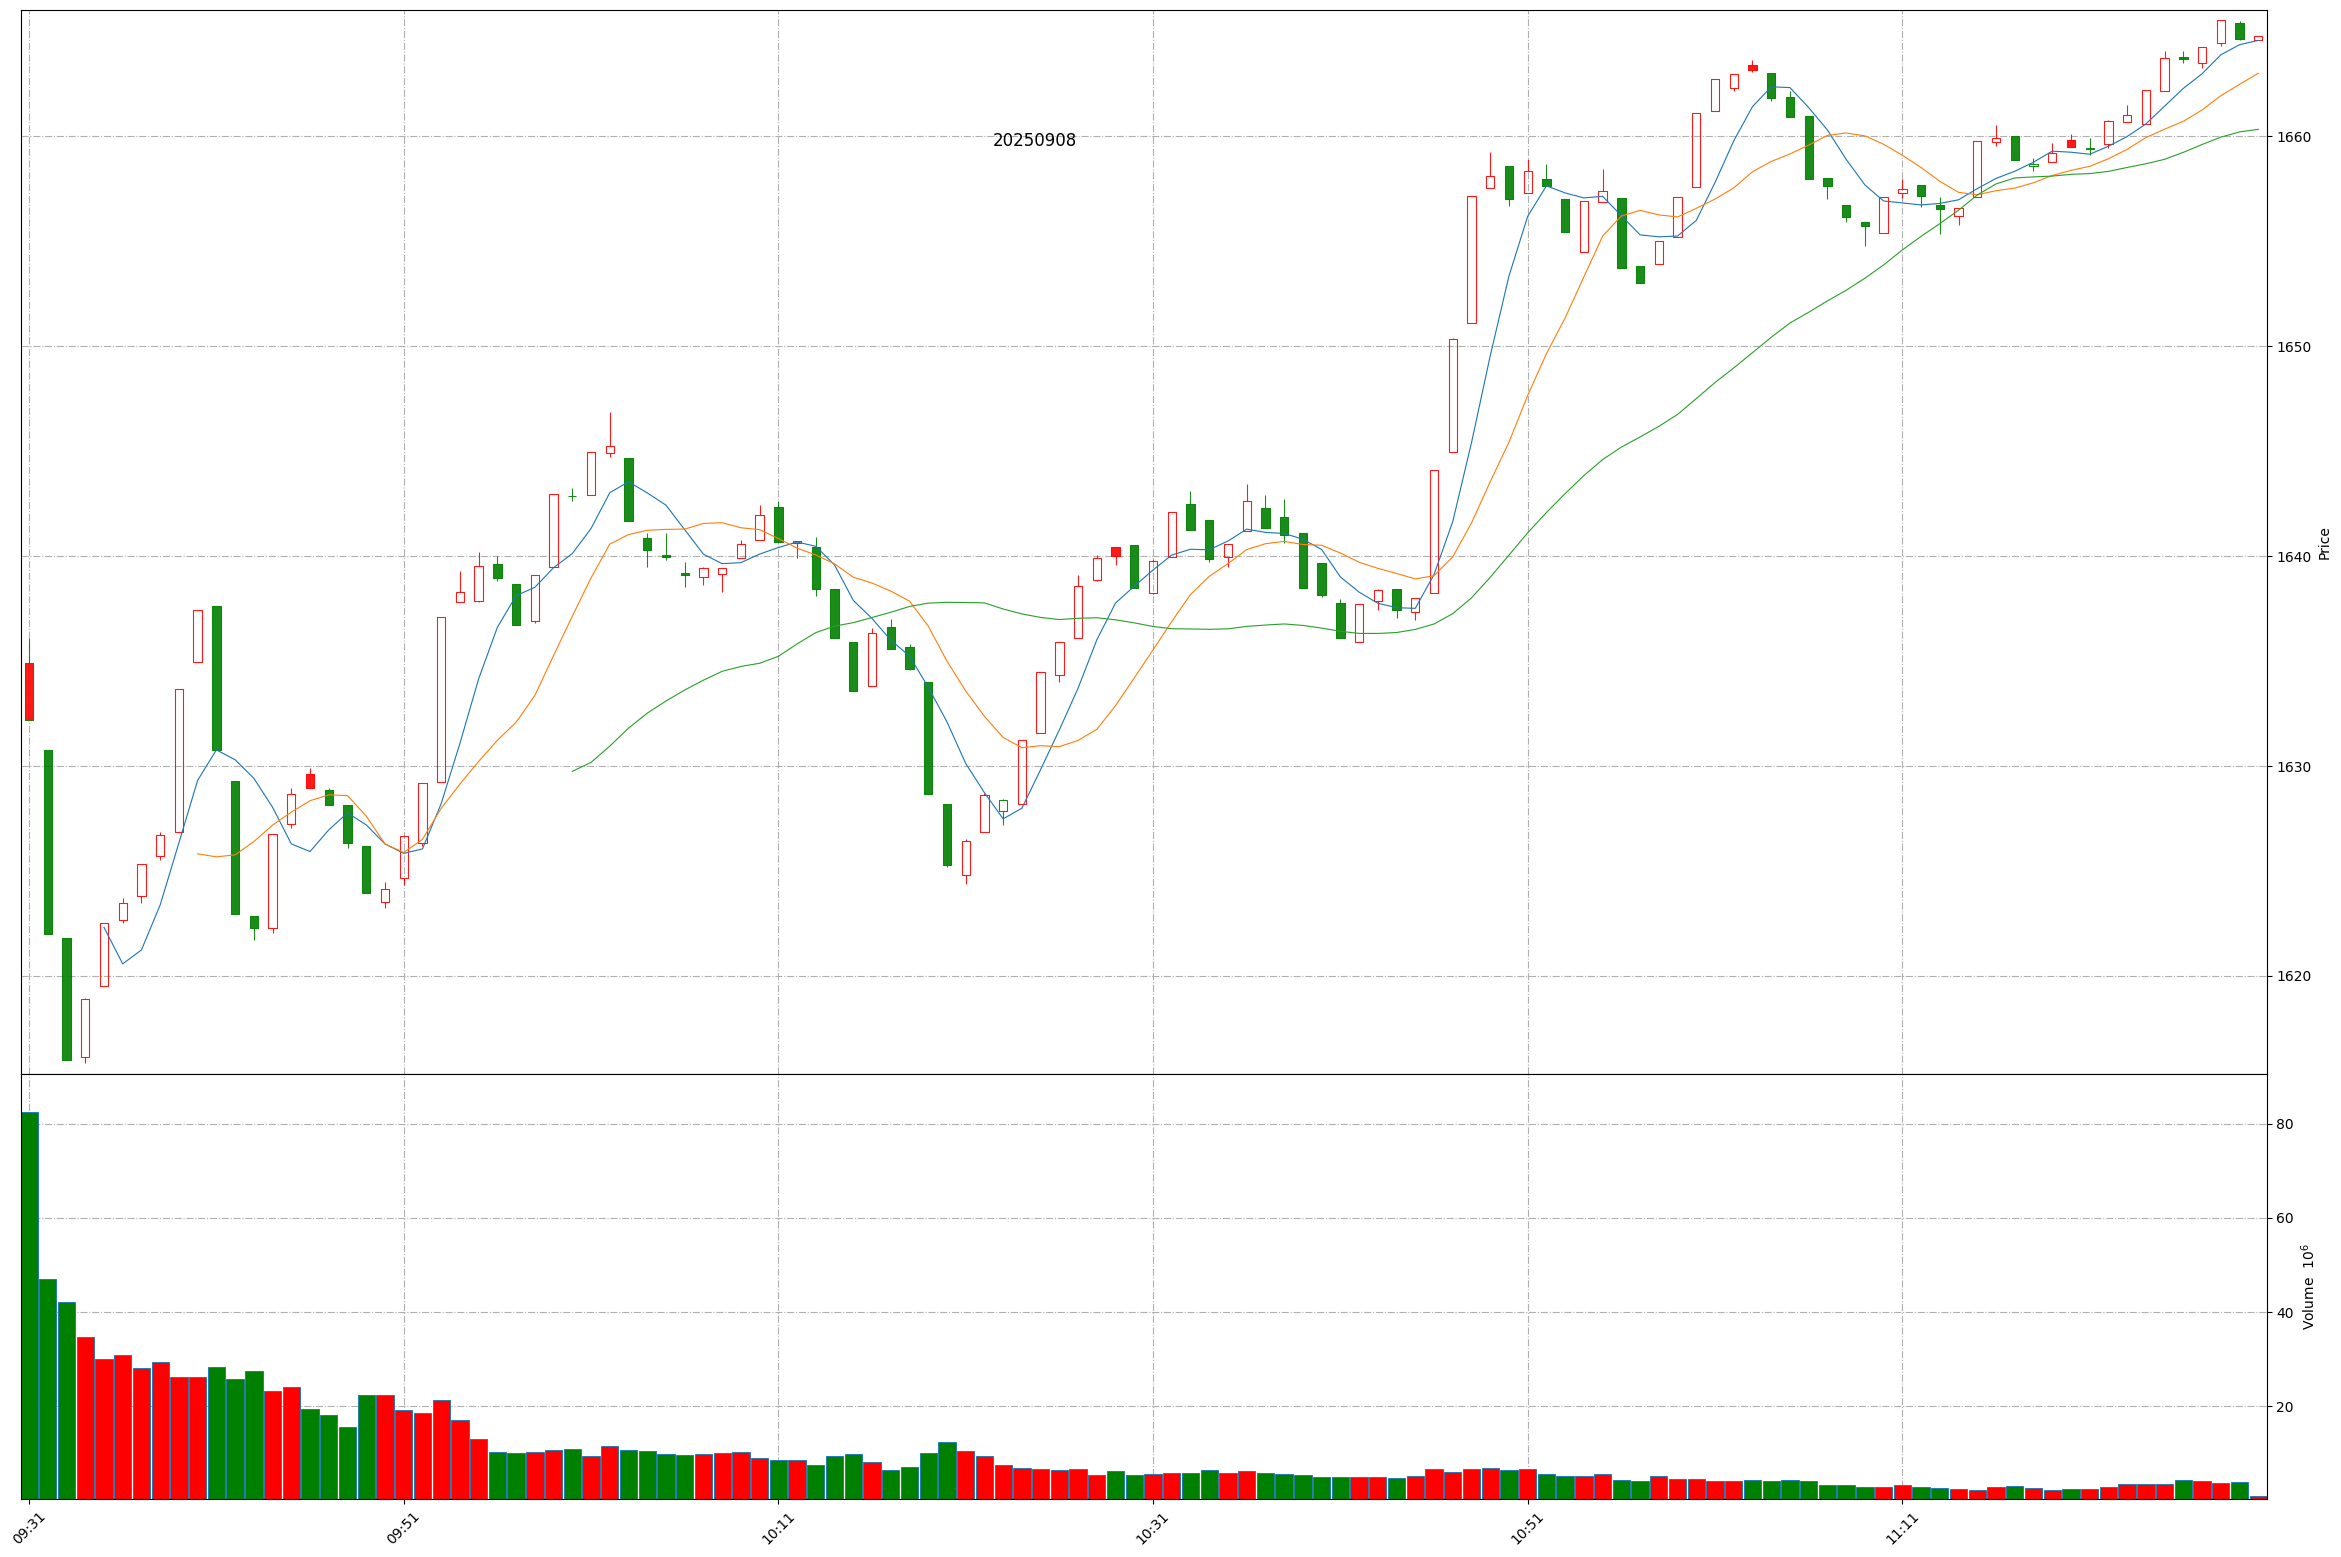
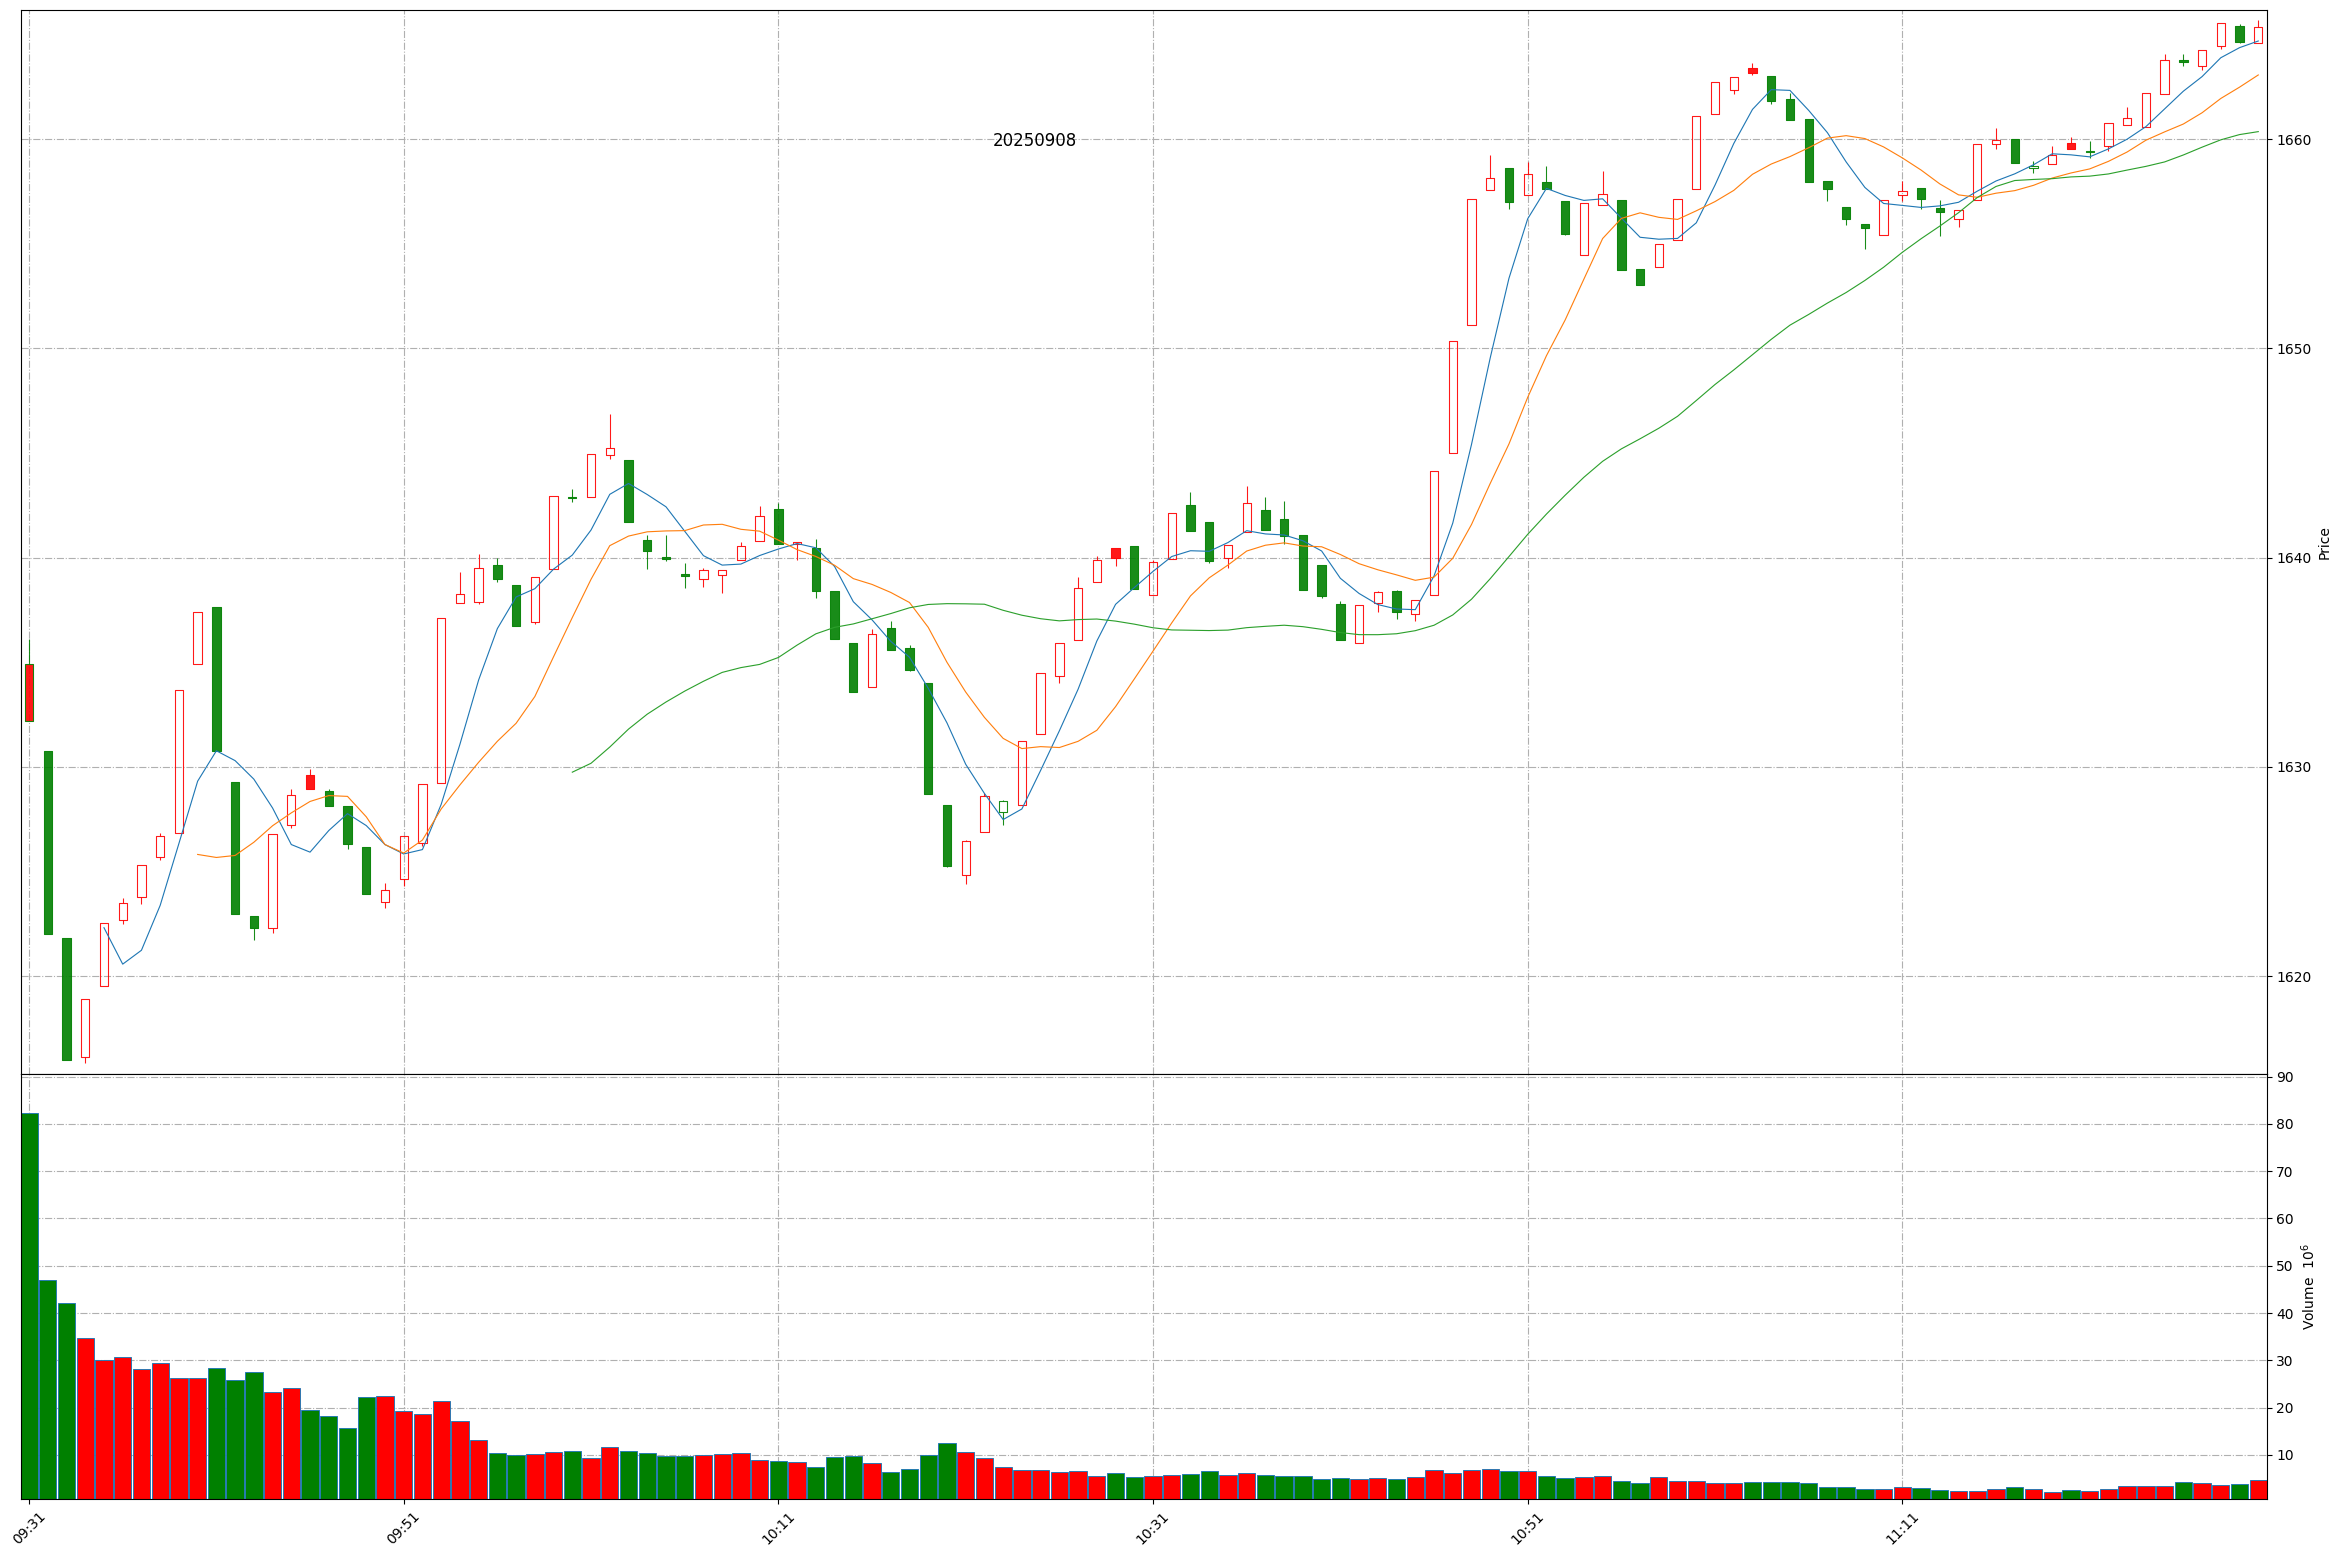
Github action update at 2025-09-08 11:31:27.

diff --git a/README.md b/README.md
@@ -1,11 +1,11 @@
 
 # Daily-A-share-market-quotes 每日 A 股指数（5min 更新）- 20250908
 
-### 上证指数 20250908 11:29
+### 上证指数 20250908 11:31
 ![](./fig/2025/9/20250908-sh000001.png)
 
-### 深证成指 20250908 11:29
+### 深证成指 20250908 11:31
 ![](./fig/2025/9/20250908-sz399001.png)
 
-### 北证50 20250908 11:29
+### 北证50 20250908 11:31
 ![](./fig/2025/9/20250908-bj899050.png)
